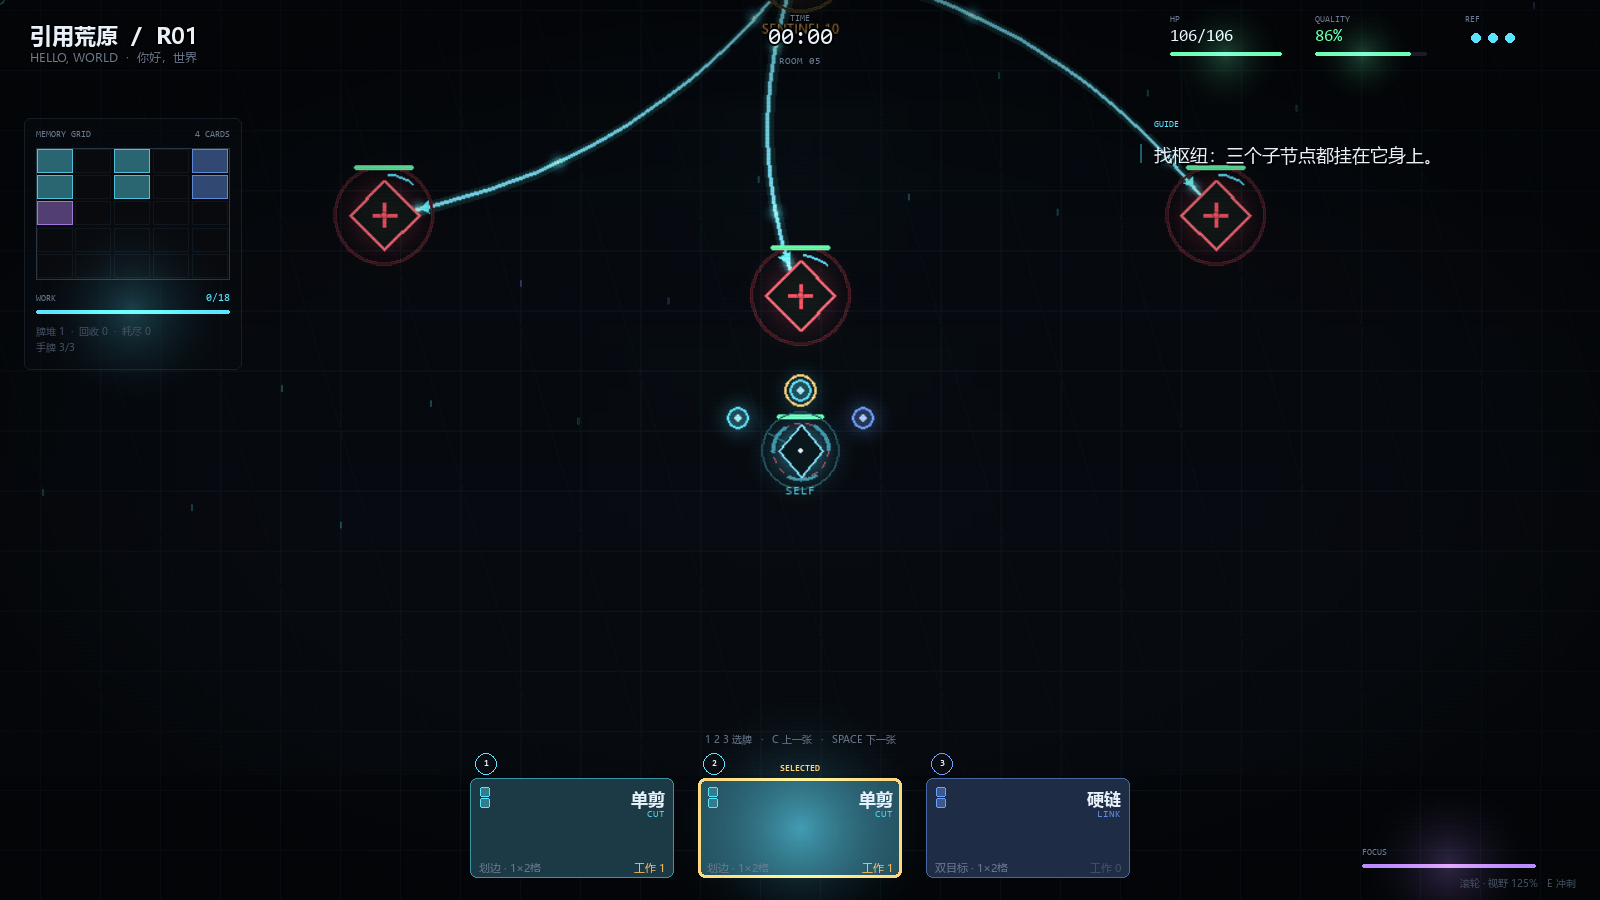
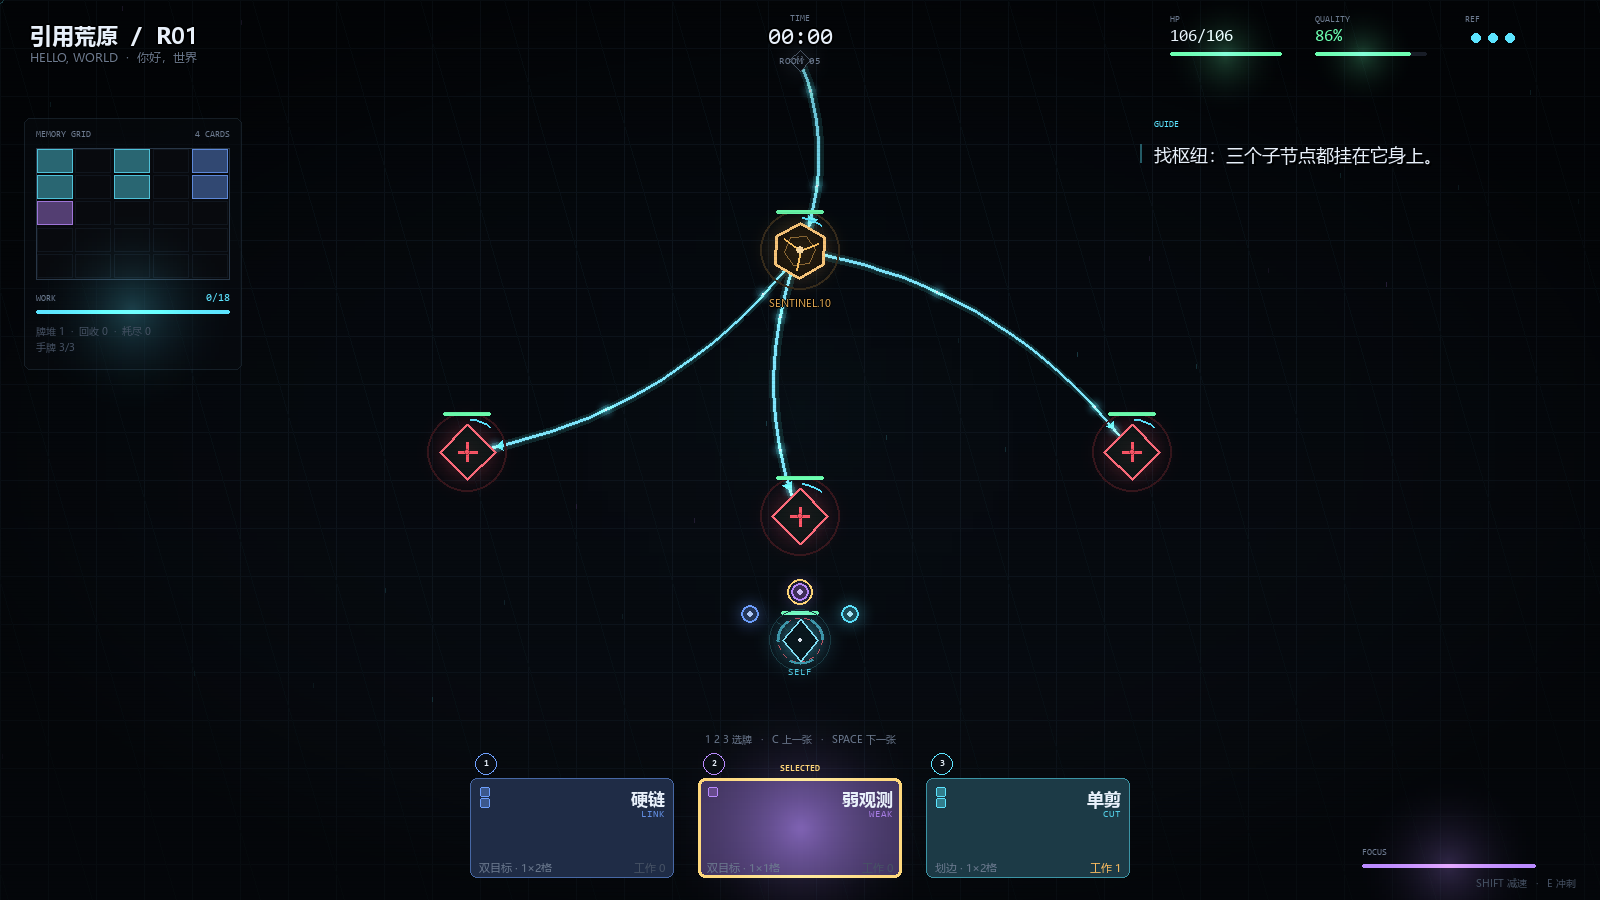
fix: restore fixed full battlefield view

diff --git a/memory_run/ui/render_core.py b/memory_run/ui/render_core.py
@@ -23,9 +23,6 @@ class BattleRenderer(WorldMixin, HudMixin, HandMixin):
         self.t = 0.0
         self.last_quality = 100
         self.trail = []
-        self.zoom = 1.25
-        self.cam = [W / 2, H / 2]
-        self._cam_ready = False
 
     def _make_bg(self):
         """整张屏幕都是战场：没有左右栏，也没有顶栏底板。"""
@@ -51,63 +48,11 @@ class BattleRenderer(WorldMixin, HudMixin, HandMixin):
 
     # ------------------------------------------------------------ 相机
 
-    def reset_camera(self):
-        self._cam_ready = False
-
-    def zoom_by(self, steps):
-        self.zoom = clamp(self.zoom + steps * 0.08, 1.0, 2.0)
-
-    def update_camera(self, b, dt):
-        # 不做边缘夹取：角色永远在屏幕正中央，地图边缘由背景网格补齐
-        self.cam = [b.player_node.x, b.player_node.y]
-        self._cam_ready = True
-
     def screen_to_world(self, pos):
-        vw, vh = W / self.zoom, H / self.zoom
-        sx, sy = self.cam[0] - vw / 2, self.cam[1] - vh / 2
-        return (sx + pos[0] / self.zoom, sy + pos[1] / self.zoom)
+        return pos
 
     def world_to_screen(self, pos):
-        vw, vh = W / self.zoom, H / self.zoom
-        sx, sy = self.cam[0] - vw / 2, self.cam[1] - vh / 2
-        return ((pos[0] - sx) * self.zoom, (pos[1] - sy) * self.zoom)
-
-    def _camera_view(self):
-        vw, vh = W / self.zoom, H / self.zoom
-        sx, sy = self.cam[0] - vw / 2, self.cam[1] - vh / 2
-        if sx >= 0 and sy >= 0 and sx + vw <= W and sy + vh <= H:
-            src = pygame.Rect(int(sx), int(sy), max(1, int(vw)),
-                              max(1, int(vh)))
-            return pygame.transform.smoothscale(
-                self.world.subsurface(src), (W, H))
-
-        # 角色贴边时地图会出现空区：用同一套网格补满，不露出黑边
-        view = pygame.Surface((W, H))
-        view.fill((6, 9, 14))
-        step = 48
-        gx = math.ceil(sx / step) * step
-        while gx < sx + vw:
-            px = int((gx - sx) * self.zoom)
-            pygame.draw.line(view, (14, 22, 30), (px, 0), (px, H), 1)
-            gx += step
-        gy = math.ceil(sy / step) * step
-        while gy < sy + vh:
-            py = int((gy - sy) * self.zoom)
-            pygame.draw.line(view, (14, 22, 30), (0, py), (W, py), 1)
-            gy += step
-
-        ix0, iy0 = max(0, sx), max(0, sy)
-        ix1, iy1 = min(W, sx + vw), min(H, sy + vh)
-        if ix1 > ix0 and iy1 > iy0:
-            src = pygame.Rect(int(ix0), int(iy0),
-                              max(1, int(ix1 - ix0)), max(1, int(iy1 - iy0)))
-            dw = max(1, int(src.w * self.zoom))
-            dh = max(1, int(src.h * self.zoom))
-            part = pygame.transform.smoothscale(self.world.subsurface(src),
-                                                (dw, dh))
-            view.blit(part, (int((ix0 - sx) * self.zoom),
-                             int((iy0 - sy) * self.zoom)))
-        return view
+        return pos
 
     # ------------------------------------------------------------ 主绘制
 
@@ -118,8 +63,7 @@ class BattleRenderer(WorldMixin, HudMixin, HandMixin):
         q = b.quality()
         self.last_quality = q
         b.screen_mouse = mouse
-        self.update_camera(b, dt)
-        b.mouse = self.screen_to_world(mouse)
+        b.mouse = mouse
         b.hover_node = b.node_at(*b.mouse)
         b.hover_edge = None if b.hover_node else b.edge_at(*b.mouse)
 
@@ -130,8 +74,8 @@ class BattleRenderer(WorldMixin, HudMixin, HandMixin):
         self.draw_world(self.world, b, (ox, oy), b.mouse)
         self.world.set_clip(None)
 
-        # 先做视野缩放，再做画质降级；UI 永远最后画，保持清晰
-        surf = self._camera_view()
+        # 固定全战场视野，只做画质降级；UI 永远最后画，保持清晰
+        surf = self.world
         band = b.quality_band()
         if band >= 1:
             factor = {1: 0.58, 2: 0.30, 3: 0.11}[band]

diff --git a/memory_run/ui/app.py b/memory_run/ui/app.py
@@ -89,7 +89,6 @@ class App:
             return
         self.run.begin_room()
         self.battle = Battle(self.run, FX())
-        self.renderer.reset_camera()
         self.state = "battle"
         self._finished_handled = False
         self.result = None
@@ -400,9 +399,6 @@ class App:
         b = self.battle
         if b is None:
             return
-        if ev.type == pygame.MOUSEWHEEL:
-            self.renderer.zoom_by(ev.y)
-            return
         if ev.type == pygame.KEYDOWN:
             if ev.key == pygame.K_ESCAPE:
                 self.state = "pause"
@@ -416,9 +412,6 @@ class App:
                 if abs(ev.pos[0] - sx) + abs(ev.pos[1] - sy) > 8:
                     self.card_press["moved"] = True
         elif ev.type == pygame.MOUSEBUTTONDOWN:
-            if ev.button in (4, 5):
-                self.renderer.zoom_by(1 if ev.button == 4 else -1)
-                return
             b.screen_mouse = ev.pos
             world = self.renderer.screen_to_world(ev.pos)
             # 按住手牌：先预览，松开时再决定是点击还是拖拽

diff --git a/memory_run/ui/render_hand.py b/memory_run/ui/render_hand.py
@@ -38,9 +38,9 @@ class HandMixin:
 
         blit_text(screen, "1 2 3 选牌   ·   C 上一张   ·   SPACE 下一张",
                   (cx, H - 168), 10, DIM, mono=True, anchor="midtop")
-        # FOCUS 与视野：放在右下角，不再占用顶部/左侧
+        # FOCUS 与冲刺提示：放在右下角，不再占用顶部/左侧
         blit_text(screen, "FOCUS", (W - 238, H - 52), 9, DIM, mono=True)
         bar(screen, pygame.Rect(W - 238, H - 36, 174, 4),
             b.focus / max(1, b.focus_max), PURPLE)
-        blit_text(screen, f"滚轮 · 视野 {int(self.zoom * 100)}%   E 冲刺",
+        blit_text(screen, "SHIFT 减速   ·   E 冲刺",
                   (W - 24, H - 24), 10, DIM2, mono=True, anchor="topright")

diff --git a/memory_run/ui/screens.py b/memory_run/ui/screens.py
@@ -202,7 +202,7 @@ def draw_help(screen):
         ("目标", "按住卡拖过引用线/对象；CUT 按住左键划边"),
         ("WRITE", "右键，朝鼠标方向打一发，不耗卡"),
         ("手牌", "固定 3 张；用 1 抽 1；牌堆空后停抽"),
-        ("减速 / 视野", "SHIFT 减速；滚轮缩放视野"),
+        ("减速 / 冲刺", "SHIFT 减速；E 冲刺"),
         ("整备", "奖励后进入；装卡、免费 ++、进商店"),
     ]
     right = [

diff --git a/tools/screens_test.py b/tools/screens_test.py
@@ -29,9 +29,6 @@ def main():
     for _ in range(140):
         app.update(1 / 60)
     save(app, "ui_battle.png")
-    app.renderer.zoom = 2.0
-    save(app, "ui_battle_zoom.png")
-    app.renderer.zoom = 1.25
     app.state = "pause"
     save(app, "ui_pause.png")
     app.state = "help"

diff --git a/docs/CONTENT.md b/docs/CONTENT.md
@@ -80,7 +80,6 @@
 | E | 朝鼠标方向冲刺 |
 | 1 / 2 / 3 | 选择对应手牌 |
 | C / Space | 上一张 / 下一张手牌 |
-| 鼠标滚轮 | 缩放视野 |
 | 鼠标拖拽 | 拖卡到网格/对象/引用线 |
 | 鼠标左键划线 | CUT：划过引用线，松手剪断 |
 | 鼠标右键 | WRITE：朝鼠标方向攻击，不耗卡 |
@@ -93,7 +92,7 @@
 
 ### 1.6 战斗界面
 
-- 全屏战场，默认视野已放大；滚轮在 100%–200% 间调整，角色始终保持在画面正中央。
+- 全屏战场，固定显示完整 1600×900 战场；不缩放，也不跟随角色移动。
 - HUD 为透明浮层：左侧保留内存网格，右侧显示当前提示/卡牌详情，顶部只留时间与紧凑状态。
 - 底部只有 3 张手牌，没有弃牌按钮；默认选中中间那张并直接进入瞄准，选中的牌固定在中间并高亮。
 - 卡面使用卡牌类型色（CUT 青、LINK 蓝、WEAK 紫等）作为不透明底色和色条，不再使用统一深色底。

diff --git a/CHANGELOG.md b/CHANGELOG.md
@@ -12,8 +12,9 @@ Alpha 阶段不保证存档/接口兼容。
 - 战斗界面改为全屏战场 + 透明浮层；手牌居中，选中牌高亮
 - 角色头顶新增三色弧形手牌球，中间球对应选中牌
 - 手牌卡面按卡牌类型着色，改为不透明底色 + 类型色条，避免三张牌看起来一样
-- 手牌默认选中中间一张并自动进入瞄准；镜头严格跟随玩家，角色始终位于画面正中央
-- `C` / `Space` 切换上/下一张手牌，`Shift` 时间减速，`E` 冲刺，滚轮缩放视野
+- 手牌默认选中中间一张并自动进入瞄准
+- 战斗镜头恢复固定全战场视野，不再缩放或跟随角色
+- `C` / `Space` 切换上/下一张手牌，`Shift` 时间减速，`E` 冲刺
 - `reg` Boss 规则改为“回收置顶”
 
 ### Fixed

diff --git a/README.md b/README.md
@@ -100,7 +100,6 @@ python run.py --shots
 | 1 / 2 / 3 | 选择对应手牌 |
 | C | 切换到上一张手牌 |
 | SPACE | 切换到下一张手牌 |
-| 鼠标滚轮 | 缩放视野（默认已放大，可拉到全战场） |
 | 左键拖拽 | 按住手牌拖到边/对象/区域，松手使用；整备界面按住卡拖进网格 |
 | 鼠标左键划线 | CUT：按住划过引用线，松手剪断 |
 | 右键 | WRITE：朝鼠标方向攻击，不耗卡 |
